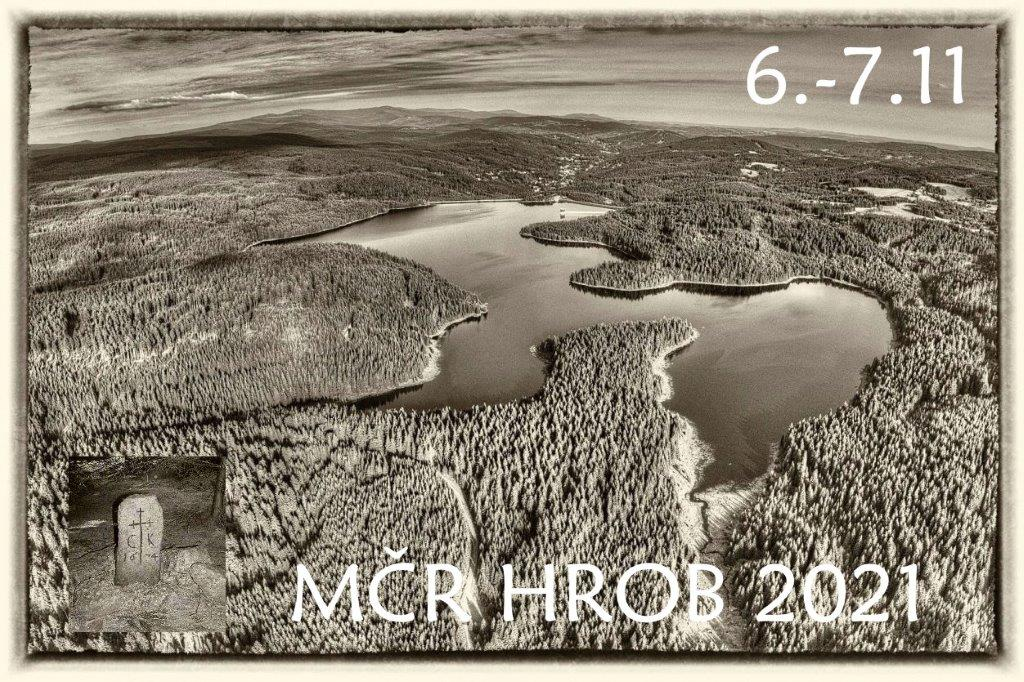
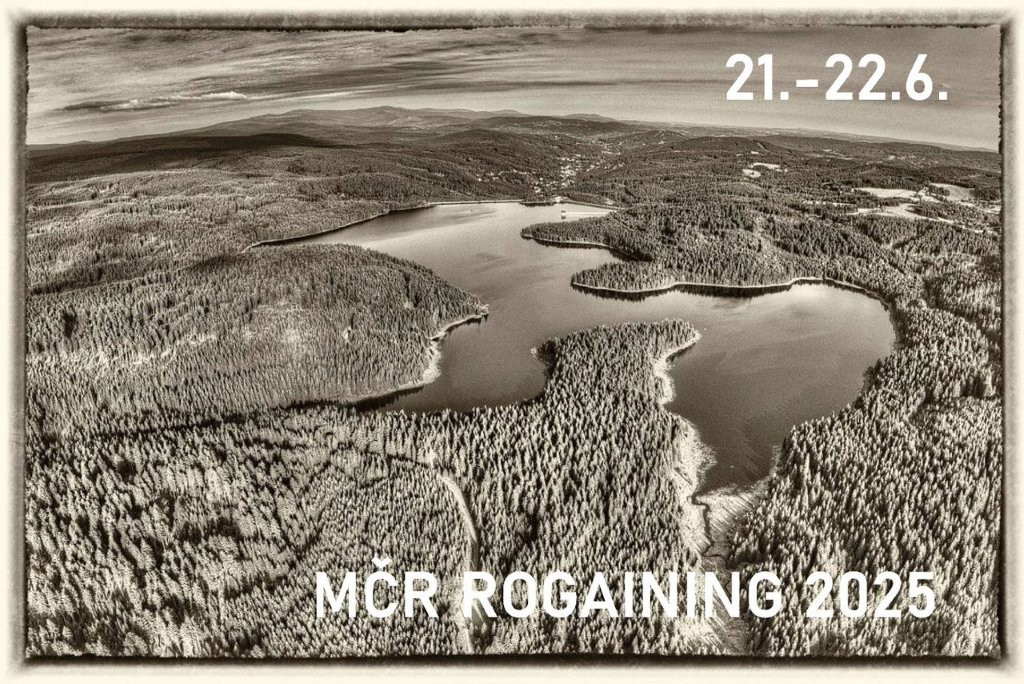
verze1

diff --git a/pages/cs/index.md b/pages/cs/index.md
@@ -4,9 +4,13 @@ author: Jan Tojnar
 modified: Dan Straka
 ---
 
-##### 6. 9. 2021
-Zdravíme HROB komunitu z&nbsp;[Potkávárny u Havrana](https://www.potkavarnauhavrana.cz/) - horské chalupy vedené orienťáky pro orienťáky či jiné sportovně zaměřené lidi. Mistrovství světa v&nbsp;OB skončilo a my jsme měli to štěstí být u&nbsp;"toho" a&nbsp;hostit různé reprezentační týmy u&nbsp;nás na&nbsp;Potkávárně. Kromě toho, v&nbsp;době kdy to nebylo zrovna zakázáno, tak jsme poskytovali zázemí různým orienťáckým klubům nebo také O-festu, což je krycí název pro pohodový týden se zaměřením na orienťák a dobrou partu (ale nejenom).
-Sám velký guru rogainingu a horského orientačního běhu Tojnárek se účastnil O-festu, kde slovo dalo slovo a my jsme se zavázali k&nbsp;tomu, že letošní HROB uspořádá Potkávárna s&nbsp;centrem na Potkávárně. Abychom v&nbsp;tom nebyli úplně sami tak nám budou pomáhat orienťáci z&nbsp;[OK Roztoky](http://roz.ini.cz/).
-Můžete se tedy těšit na horský orienťák, který se bude konat v&nbsp;tréninkových i&nbsp;závodních prostorech pro letošní mistrovský závod na krátké trati.
-Jsme ve stádiu plánování tratí, budeme Vás informovat o přípravě a budeme všichni společně doufat, že do toho zase nevleze Covid.
+##### 29. 1. 2025
+Zdravíme rogainingovou komunitu z&nbsp;[Potkávárny u Havrana](https://www.potkavarnauhavrana.cz/) - horské chalupy vedené orienťáky pro orienťáky či jiné sportovně zaměřené lidi. 
+
+Za 5&nbsp;let naší existence jsme měli tu čest hostit orienťáky, nejen z&nbsp;mnoha českých klubů a reprezentaćních výběrů ale, také z&nbsp;mnoha dalších zemí. Měli jsme možnost se seznámit s&nbsp;různými reprezentačními týmy před a v&nbsp;průběhu mistrovství světa v&nbsp;OB 2021. A vyzkoušeli jsme si pořádání MČR v&nbsp;horském orientačním běhu 2021. Teď dozrál čas k tomu si uspořádat také královskou disciplínu vytrvalců - rogaining.
+Můžete se tedy těšit na rogaining, který se bude konat v jižní časti Jizerských hor a v jizerskohorském a krkonošském podhůří.
+
+Nemějte strach, nejdeme do toho sami. Sám velký guru rogainingu a horského orientačního běhu Tojnárek je naším konzultantem, orienťáci z&nbsp;[OK Roztoky](http://roz.ini.cz/) nám budou pomáhat, tak jako s Hrobem a stavitel závodu není nikdo jiný než mistr světa na krátké trati z roku 1991 Petr Kozák alias Kožak.
+
+Jsme ve stádiu plánování, budeme Vás informovat o přípravě a budeme všichni společně doufat, že nenastane žádná nepředvídaná situace, která by pořádání znemožnila.   
 
